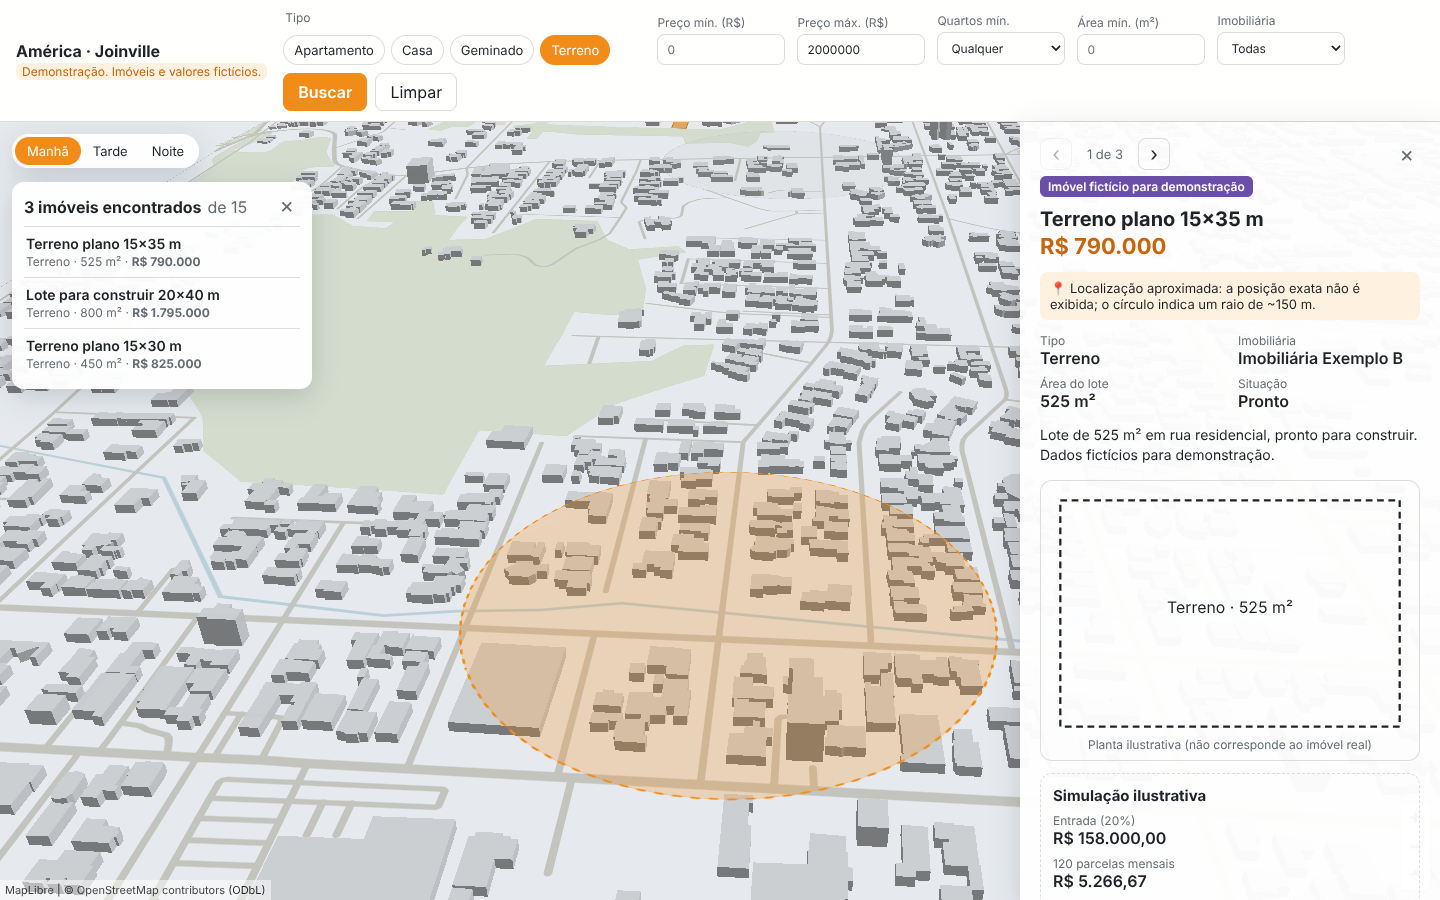
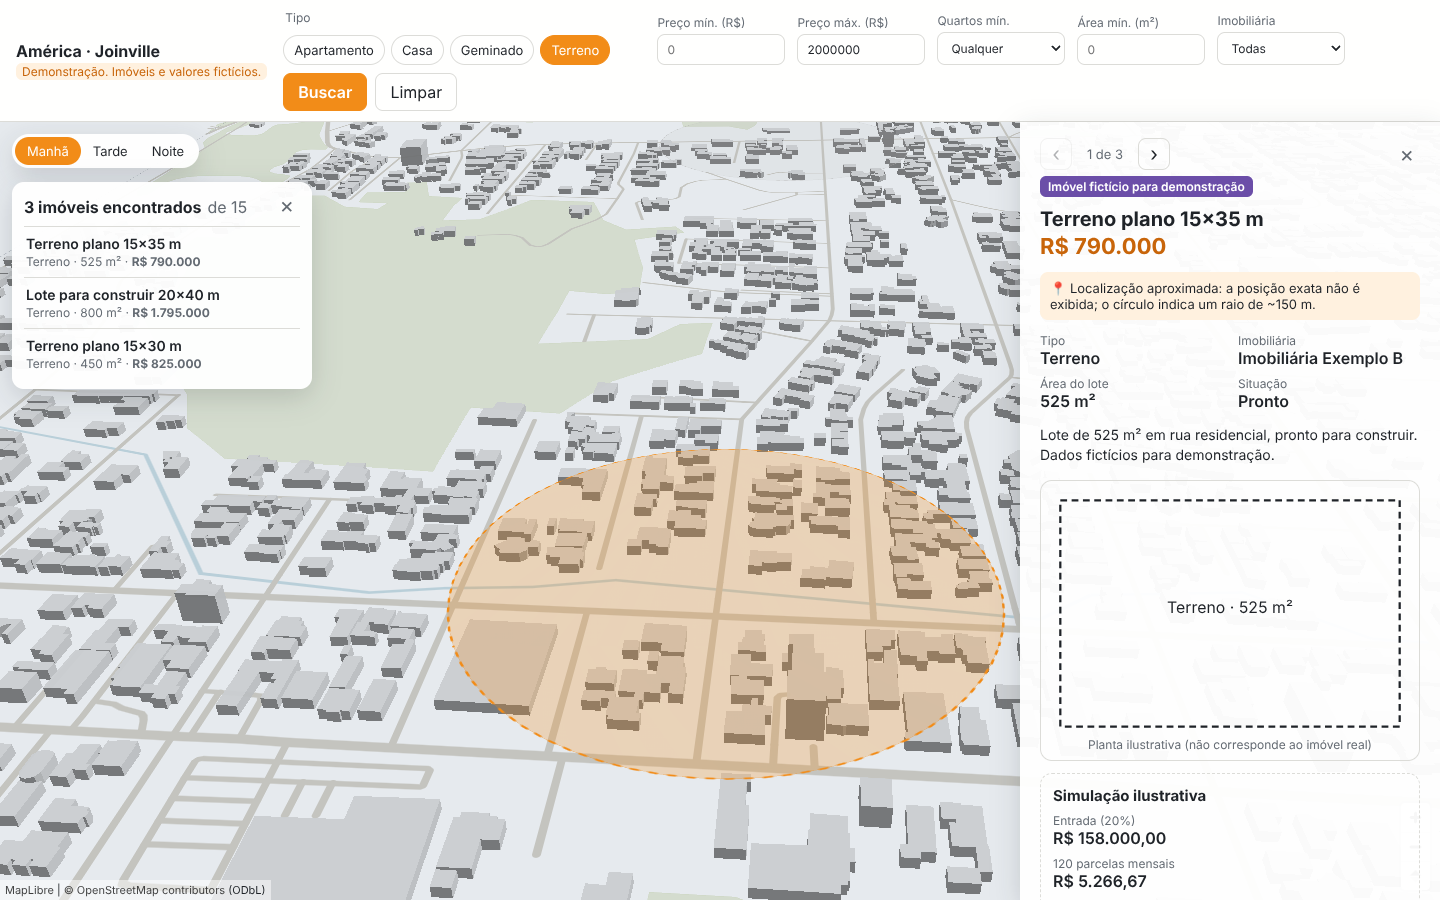
Keep filters and the open listing in a shareable URL
?imovel=…&tipo=…&precoMin=…&precoMax=…&quartos=…&area=…&imob=… is restored on load
(invalid values are ignored and dropped). Opening a listing pushes a history entry,
so the browser back button closes the drawer; searches and previous/next replace
the current entry. URL parsing is a pure module with unit tests.

Claude-Session: https://claude.ai/code/session_01MswBngYgUdv4UjeCTjJVEZ

Changed region(s): [[0.0, 0.1244, 0.7188, 1.0]]

diff --git a/src/main.ts b/src/main.ts
@@ -9,6 +9,7 @@ import type { Listing } from './data/types';
 import { Scene } from './map/scene';
 import { themeFor, type TimeOfDay } from './map/lighting';
 import { FilterStore, filterListings, isEmptyCriteria } from './state/filters';
+import { sameCriteria, searchToState, stateToSearch } from './state/url';
 import { mountFilters } from './ui/filters';
 import { highlightResult, renderResults } from './ui/results';
 import { Drawer } from './ui/drawer';
@@ -20,23 +21,54 @@ setWorkerUrl(workerUrl);
 const $ = <T extends HTMLElement>(sel: string) => document.querySelector<T>(sel)!;
 const status = $('#status');
 
+/** history.state written by this app. `pristine`: entry pushed by opening the drawer, untouched since. */
+interface HistoryState {
+  drawer?: boolean;
+  pristine?: boolean;
+}
+
 async function main() {
   status.textContent = 'Carregando dados do bairro…';
   const data = await loadData();
   const [lon, lat] = data.meta.center; // from Nominatim, see scripts/fetch-osm.mjs
   const listings = data.listings.listings;
+  const known = {
+    agencyIds: new Set(data.listings.agencies.map((a) => a.id)),
+    listingIds: new Set(listings.map((l) => l.id)),
+  };
 
   let tod: TimeOfDay = 'morning';
   const store = new FilterStore();
   const resultsEl = $('#results');
-
-  const tooltip = new HoverTooltip($('#hover-tooltip'), $('#map'));
   // The list the drawer browses with previous/next: applied search results, in display order.
   let currentList: Listing[] = listings;
+  // True while the UI is being updated from the URL (back/forward, initial load): don't write history.
+  let syncingFromUrl = false;
+  // True while a search closes the drawer because its listing is no longer in the results.
+  let closingForSearch = false;
+
+  // ------------------------------------------------------------ URL / history
+  const urlFor = (listingId: string | null) =>
+    `${location.pathname}${stateToSearch({ criteria: store.getApplied(), listingId })}${location.hash}`;
+  const historyState = () => (history.state ?? {}) as HistoryState;
+
+  /** Updates the current entry (filters changed, or browsing between listings). */
+  function replaceUrl(state: HistoryState = historyState()) {
+    history.replaceState(state, '', urlFor(drawer.currentId));
+  }
+
+  const tooltip = new HoverTooltip($('#hover-tooltip'), $('#map'));
   const drawer = new Drawer(
     $('#drawer'),
     data.listings.agencies,
-    () => scene.select(null),
+    () => {
+      scene.select(null);
+      if (syncingFromUrl) return;
+      const st = historyState();
+      // Closing from the UI right after opening: step back, so "back" and "close" stay equivalent.
+      if (!closingForSearch && st.drawer && st.pristine) history.back();
+      else replaceUrl({});
+    },
     (id) => openListing(id, true),
   );
   const scene = new Scene($('#map'), data, themeFor(tod, lat, lon).theme, {
@@ -53,6 +85,7 @@ async function main() {
   function openListing(id: string, fly: boolean) {
     const l = listings.find((x) => x.id === id);
     if (!l) return;
+    const wasOpen = drawer.currentId !== null;
     if (fly) scene.flyToListing(l);
     scene.select(id);
     const index = currentList.findIndex((x) => x.id === id);
@@ -67,14 +100,22 @@ async function main() {
             nextId: currentList[index + 1]?.id ?? null,
           },
     );
+    if (syncingFromUrl) return;
+    // A new entry when the drawer opens, so the browser's back button closes it.
+    if (wasOpen) replaceUrl();
+    else history.pushState({ drawer: true, pristine: true } satisfies HistoryState, '', urlFor(id));
   }
 
-  mountFilters($<HTMLFormElement>('#filters'), store, data.listings.agencies);
+  const filtersUi = mountFilters($<HTMLFormElement>('#filters'), store, data.listings.agencies);
   store.onApply((criteria) => {
     const results = filterListings(listings, criteria);
     currentList = results;
     scene.setMatched(new Set(results.map((l) => l.id)));
-    if (drawer.currentId && !results.some((l) => l.id === drawer.currentId)) drawer.close();
+    if (drawer.currentId && !results.some((l) => l.id === drawer.currentId)) {
+      closingForSearch = true;
+      drawer.close();
+      closingForSearch = false;
+    }
     if (isEmptyCriteria(criteria)) {
       resultsEl.hidden = true;
     } else {
@@ -90,7 +131,27 @@ async function main() {
     if (results.length > 0) scene.fitToListings(results);
     document.body.classList.remove('filters-open');
     $('.filters-toggle').setAttribute('aria-expanded', 'false');
+    if (!syncingFromUrl) replaceUrl({ ...historyState(), pristine: false });
   });
+
+  /** Brings filters and the drawer in line with the address bar. */
+  function applyUrl() {
+    const state = searchToState(location.search, known);
+    syncingFromUrl = true;
+    try {
+      if (!sameCriteria(state.criteria, store.getApplied())) {
+        filtersUi.setForm(state.criteria);
+        store.setPending(state.criteria);
+        store.apply();
+      }
+      if (state.listingId) {
+        if (state.listingId !== drawer.currentId) openListing(state.listingId, true);
+      } else drawer.close();
+    } finally {
+      syncingFromUrl = false;
+    }
+  }
+  window.addEventListener('popstate', applyUrl);
 
   mountTimeOfDay($('.time-of-day'), tod, (next) => {
     tod = next;
@@ -107,6 +168,9 @@ async function main() {
   });
 
   await scene.ready;
+  // Shared link: restore filters and the open listing, then normalise the URL (drops invalid params).
+  applyUrl();
+  history.replaceState(historyState(), '', urlFor(drawer.currentId));
   status.textContent = '';
   document.body.dataset.ready = 'true';
 

diff --git a/src/state/url.ts b/src/state/url.ts
@@ -1,0 +1,75 @@
+import { LISTING_TYPES, type ListingType } from '../data/types';
+import { EMPTY_CRITERIA, type FilterCriteria } from './filters';
+
+/** What the address bar stores: applied filters and the open listing. */
+export interface UrlState {
+  criteria: FilterCriteria;
+  listingId: string | null;
+}
+
+/** Readable Portuguese slugs for listing types in the URL. */
+const TYPE_SLUGS: Record<ListingType, string> = {
+  apartment: 'apartamento',
+  house: 'casa',
+  semi_detached: 'geminado',
+  land: 'terreno',
+};
+const SLUG_TO_TYPE = new Map(LISTING_TYPES.map((t) => [TYPE_SLUGS[t], t]));
+
+export function stateToSearch(state: UrlState): string {
+  const p = new URLSearchParams();
+  const c = state.criteria;
+  if (state.listingId) p.set('imovel', state.listingId);
+  if (c.types.length) p.set('tipo', c.types.map((t) => TYPE_SLUGS[t]).join(','));
+  if (c.priceMin !== null) p.set('precoMin', String(c.priceMin));
+  if (c.priceMax !== null) p.set('precoMax', String(c.priceMax));
+  if (c.bedroomsMin !== null) p.set('quartos', String(c.bedroomsMin));
+  if (c.areaMin !== null) p.set('area', String(c.areaMin));
+  if (c.agency !== null) p.set('imob', c.agency);
+  const s = p.toString();
+  return s ? `?${s}` : '';
+}
+
+const nonNegative = (v: string | null): number | null => {
+  if (v === null || v.trim() === '') return null;
+  const n = Number(v);
+  return Number.isFinite(n) && n >= 0 ? n : null;
+};
+
+/**
+ * Parses the query string defensively: unknown types, agencies or listing ids and invalid
+ * numbers are ignored rather than breaking the page.
+ */
+export function searchToState(search: string, known: { agencyIds: Set<string>; listingIds: Set<string> }): UrlState {
+  const p = new URLSearchParams(search);
+  const types = (p.get('tipo') ?? '')
+    .split(',')
+    .map((s) => SLUG_TO_TYPE.get(s.trim().toLowerCase()))
+    .filter((t): t is ListingType => t !== undefined);
+  const bedrooms = nonNegative(p.get('quartos'));
+  const agency = p.get('imob');
+  const listingId = p.get('imovel');
+  return {
+    criteria: {
+      ...EMPTY_CRITERIA,
+      types: [...new Set(types)],
+      priceMin: nonNegative(p.get('precoMin')),
+      priceMax: nonNegative(p.get('precoMax')),
+      bedroomsMin: bedrooms === null ? null : Math.floor(bedrooms),
+      areaMin: nonNegative(p.get('area')),
+      agency: agency && known.agencyIds.has(agency) ? agency : null,
+    },
+    listingId: listingId && known.listingIds.has(listingId) ? listingId : null,
+  };
+}
+
+export function sameCriteria(a: FilterCriteria, b: FilterCriteria): boolean {
+  return (
+    [...a.types].sort().join() === [...b.types].sort().join() &&
+    a.priceMin === b.priceMin &&
+    a.priceMax === b.priceMax &&
+    a.bedroomsMin === b.bedroomsMin &&
+    a.areaMin === b.areaMin &&
+    a.agency === b.agency
+  );
+}

diff --git a/tests/url.test.ts b/tests/url.test.ts
@@ -1,0 +1,28 @@
+import { describe, expect, it } from 'vitest';
+import { EMPTY_CRITERIA } from '../src/state/filters';
+import { sameCriteria, searchToState, stateToSearch } from '../src/state/url';
+
+const known = { agencyIds: new Set(['agency-a', 'agency-b']), listingIds: new Set(['apt-01', 'land-13']) };
+
+describe('URL state', () => {
+  it('empty state produces an empty query string', () => {
+    expect(stateToSearch({ criteria: EMPTY_CRITERIA, listingId: null })).toBe('');
+  });
+  it('round-trips criteria and the open listing', () => {
+    const state = {
+      criteria: { types: ['house' as const, 'land' as const], priceMin: 300000, priceMax: 900000, bedroomsMin: 2, areaMin: 80, agency: 'agency-b' },
+      listingId: 'land-13',
+    };
+    const search = stateToSearch(state);
+    expect(search).toBe('?imovel=land-13&tipo=casa%2Cterreno&precoMin=300000&precoMax=900000&quartos=2&area=80&imob=agency-b');
+    expect(searchToState(search, known)).toEqual(state);
+  });
+  it('ignores unknown or invalid values', () => {
+    const s = searchToState('?tipo=castelo,casa,casa&precoMin=-5&precoMax=abc&quartos=2.7&imob=agency-x&imovel=nope', known);
+    expect(s).toEqual({ criteria: { ...EMPTY_CRITERIA, types: ['house'], bedroomsMin: 2 }, listingId: null });
+  });
+  it('sameCriteria ignores type order', () => {
+    expect(sameCriteria({ ...EMPTY_CRITERIA, types: ['land', 'house'] }, { ...EMPTY_CRITERIA, types: ['house', 'land'] })).toBe(true);
+    expect(sameCriteria({ ...EMPTY_CRITERIA, priceMax: 1 }, EMPTY_CRITERIA)).toBe(false);
+  });
+});

diff --git a/src/ui/filters.ts b/src/ui/filters.ts
@@ -7,7 +7,11 @@ import { escapeHtml, parseNumberInput } from '../utils/format';
  * Renders the filter form. Editing a field only updates the store's *pending* criteria;
  * the map changes exclusively when the user presses "Buscar" (form submit) or "Limpar".
  */
-export function mountFilters(form: HTMLFormElement, store: FilterStore, agencies: Agency[]): void {
+export function mountFilters(
+  form: HTMLFormElement,
+  store: FilterStore,
+  agencies: Agency[],
+): { setForm: (c: FilterCriteria) => void } {
   form.innerHTML = `
     <fieldset class="f-types">
       <legend>Tipo</legend>
@@ -82,4 +86,12 @@ export function mountFilters(form: HTMLFormElement, store: FilterStore, agencies
     store.clear();
     refreshHint();
   });
+
+  /** Shows criteria that were applied from outside the form (e.g. a shared link). */
+  return {
+    setForm: (c: FilterCriteria) => {
+      writeForm(c);
+      refreshHint();
+    },
+  };
 }
